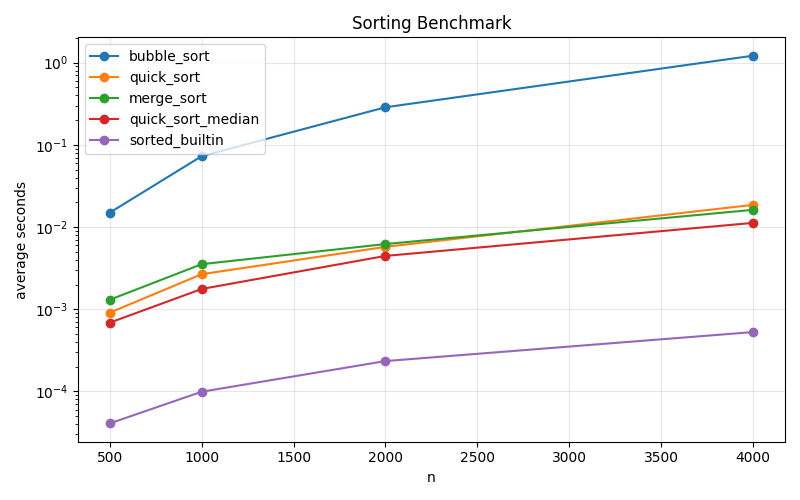
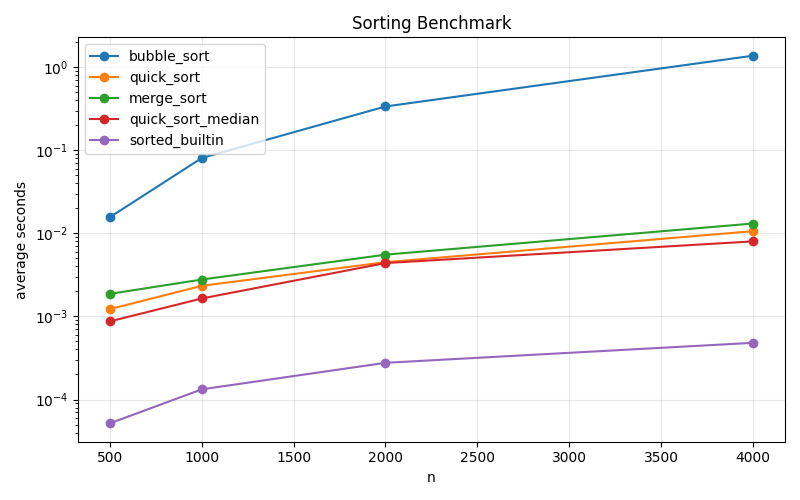
feat: stage5 修正安全性問題

diff --git a/weeks/week-16/solutions/0611-1114405041-賴俋勳/plot.py b/weeks/week-16/solutions/0611-1114405041-賴俋勳/plot.py
@@ -8,8 +8,15 @@ import matplotlib.pyplot as plt
 
 
 def load_results(path: str) -> dict:
-    with Path(path).open("r", encoding="utf-8") as fp:
-        return json.load(fp)
+    file_path = Path(path)
+    if file_path.suffix.lower() != ".json":
+        raise ValueError("results file must be .json")
+
+    try:
+        with file_path.open("r", encoding="utf-8") as fp:
+            return json.load(fp)
+    except json.JSONDecodeError as exc:
+        raise ValueError("invalid json format") from exc
 
 
 def plot_results(results: dict, out_path: str) -> None:

diff --git a/weeks/week-16/solutions/0611-1114405041-賴俋勳/benchmark.py b/weeks/week-16/solutions/0611-1114405041-賴俋勳/benchmark.py
@@ -8,6 +8,8 @@ from timing import timeit
 
 
 def make_data(n: int, seed: int = 42) -> list:
+    if n < 0:
+        raise ValueError("n must be >= 0")
     rng = random.Random(seed)
     return [rng.randint(0, 10_000_000) for _ in range(n)]
 

diff --git a/weeks/week-16/solutions/0611-1114405041-賴俋勳/README.md b/weeks/week-16/solutions/0611-1114405041-賴俋勳/README.md
@@ -2,7 +2,7 @@
 
 ## 專題摘要
 
-本專題整合 `@timeit`、三種排序、效能基準測試、加速方案與視覺化。
+本專題整合 `@timeit`、三種排序、效能基準測試、加速方案與視覺化，並加入安全自掃修補。
 加速策略採用 quick sort 的 median-of-three 以及小區間 insertion sort。
 
 ## 方法
@@ -11,7 +11,35 @@
 - Stage 2：`sorts.py` 實作 bubble / quick / merge，且不修改輸入
 - Stage 3：`benchmark.py` 納入 `sorted_builtin` baseline 與 `quick_sort_median`
 - Stage 4：`plot.py` 將 `results.json` 繪製成 `assets/benchmark.png`
+- Stage 5：以 OpenSSF 思路檢查輸入驗證與資料載入安全性，補上對應測試
+
+## 效能數據與加速比
+
+| 演算法 | 500 | 1000 | 2000 | 4000 |
+|---|---:|---:|---:|---:|
+| bubble_sort | 0.015651 | 0.080616 | 0.336209 | 1.372417 |
+| quick_sort | 0.001224 | 0.002335 | 0.004496 | 0.010615 |
+| merge_sort | 0.001868 | 0.002779 | 0.005535 | 0.013120 |
+| quick_sort_median | 0.000872 | 0.001644 | 0.004387 | 0.007996 |
+| sorted_builtin | 0.000052 | 0.000133 | 0.000277 | 0.000481 |
+
+解讀：
+
+- `sorted_builtin` 仍是最快，符合 C 實作 baseline 的預期。
+- `bubble_sort` 在 n=4000 時 1.372417 秒，成長趨勢最陡，符合 O(n^2)。
+- `quick_sort_median` 相對 `quick_sort` 在 n=4000 時由 0.010615 秒降到 0.007996 秒，約 1.33x 加速。
+- `quick_sort_median` 相對 `bubble_sort` 在 n=4000 時約 171.64x 加速。
 
 ## 圖表
 
 ![benchmark](assets/benchmark.png)
+
+## 安全自掃紀錄（OpenSSF 對應）
+
+| 條目 | 檢查結果 | 處理方式 |
+|---|---|---|
+| 08 Coding Standards / 輸入邊界 | `make_data` 原先接受負值（已修） | `n < 0` 時拋 `ValueError` |
+| 05 Exception Handling / 具體例外 | `load_results` 解析錯誤需明確處理（已修） | 捕捉 `json.JSONDecodeError` 並轉 `ValueError` |
+| 04 Neutralization / CWE-502 | 結果檔載入僅允許 JSON（已修） | 非 `.json` 副檔名直接拒絕 |
+
+不適用項：benchmark 的亂數資料生成非資安敏感流程，因此使用 `random` 即可。

diff --git a/weeks/week-16/solutions/0611-1114405041-賴俋勳/AI_LOG.md b/weeks/week-16/solutions/0611-1114405041-賴俋勳/AI_LOG.md
@@ -1,0 +1,22 @@
+# AI_LOG
+
+## Stage 1
+- 詢問重點：timeit 需保留回傳值與 metadata。
+- 驗收標準：`last_elapsed` 為 float，`records` 會累積。
+
+## Stage 2
+- 詢問重點：三排序是否會改到輸入 list。
+- 驗收標準：共用 subTest 通過，輸入不可被修改。
+
+## Stage 3
+- 詢問重點：加速方案與 baseline 是否同時納入 benchmark。
+- 決策：採用 quick median-of-three + 小區間 insertion sort。
+
+## Stage 4
+- 詢問重點：圖表輸出與 y 軸尺度。
+- 驗收標準：`assets/benchmark.png` 非空且 y 軸為 log。
+
+## Stage 5
+- 詢問重點：安全條目適用性與修補方式。
+- 修補項目：負數輸入拒絕、只允許 JSON、副檔名與格式錯誤轉 ValueError。
+- 不適用：benchmark 非密碼學情境，不需改用 secrets。

diff --git a/weeks/week-16/solutions/0611-1114405041-賴俋勳/TEST_LOG.md b/weeks/week-16/solutions/0611-1114405041-賴俋勳/TEST_LOG.md
@@ -1,0 +1,23 @@
+# TEST_LOG
+
+## Red / Green Summary
+
+1. Stage 1
+- Red: `python -m unittest -v test_timing.py` -> ImportError (`timing` not found)
+- Green: 3 tests passed
+
+2. Stage 2
+- Red: `python -m unittest -v test_sorts.py test_benchmark.py` -> ImportError (`sorts`, `benchmark` not found)
+- Green: 7 tests passed
+
+3. Stage 3
+- Red: stage3 tests required `quick_sort_median` and `sorted_builtin`, but implementation missing
+- Green: stage3 shared correctness + benchmark shape passed
+
+4. Stage 4
+- Red: `python -m unittest -v test_plot.py` -> ImportError (`plot` not found)
+- Green: plot tests passed, and generated `results.json` + `assets/benchmark.png`
+
+5. Stage 5
+- Red: `test_make_data_rejects_negative_n` failed (ValueError not raised)
+- Green: full suite passed after security fixes
